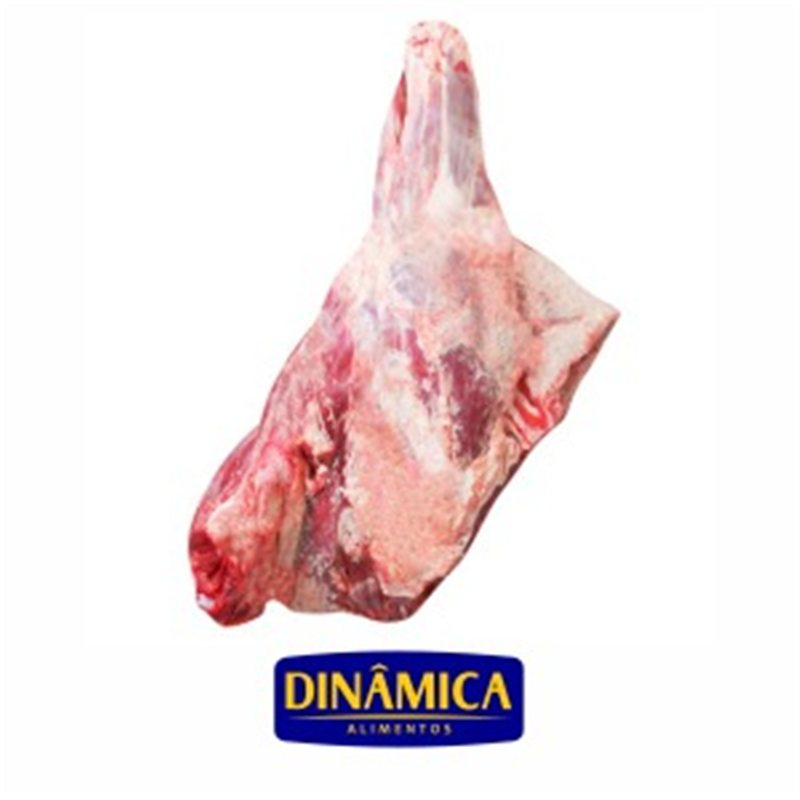
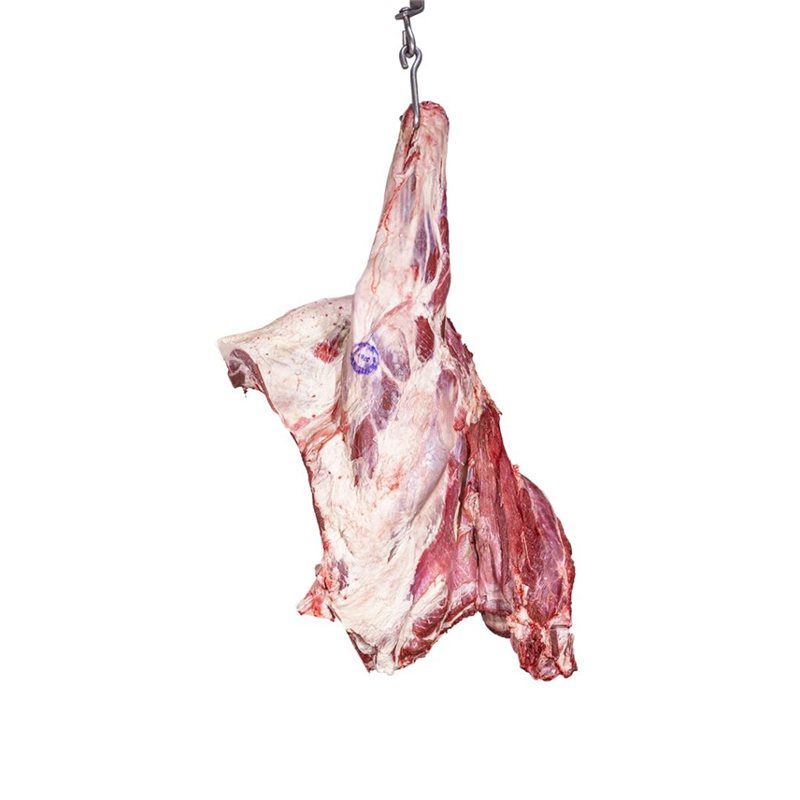
v2.64.1: validade padrao de 1 dia no Destaque + foto nova do 1602
DestaqueSemanaModal comeca com hoje -> amanha e usa data local.
fotos/1602.jpg trocada (a anterior tinha logo de outra marca).

Changed region(s): [[0.2188, 0.0, 0.7812, 0.9375]]

diff --git a/index.html b/index.html
@@ -457,7 +457,7 @@
         const isCapacitor = (typeof window !== 'undefined') && !!(window.Capacitor && (typeof window.Capacitor.isNativePlatform === 'function' ? window.Capacitor.isNativePlatform() : window.Capacitor.isNative));
         // 🔄 Versão desta página, pra comparar com web-version.json e saber se tem atualização pendente
         // (site/PWA/PC). PRECISA bater com o número em web-version.json — bump os dois juntos SEMPRE.
-        const APP_BUILD_VERSION = 271;
+        const APP_BUILD_VERSION = 272;
         // 📋 Chaves da Fila de Pedidos. Ficam aqui no topo porque são usadas por DUAS telas distantes:
         // a FilaScreen (que monta a lista) e a ResumoScreen (que marca o pedido como conferido ao copiar).
         const FILA_ATIVA = 'friganso_fila_ativa';   // [{ pedido, feito, texto }] — a fila em andamento
@@ -9705,6 +9705,10 @@
         // (reseta Y). Y também sobe se Z chegasse a 100 (reseta Z). Mais recente primeiro.
         // Toda entrega nova (site/extensão/app/PC) ganha uma entrada aqui.
         const CHANGELOG = [
+            { versao: '2.64.1', data: '25/11/2026', areas: ['site', 'app'], itens: [
+                '📅 Destaque da Semana: validade já vem com 1 dia (hoje até amanhã). Também corrigido o dia que virava sozinho à noite (depois das 21h)',
+                '📸 Foto nova do Dianteiro Bovino (1602), sem logo de outra marca',
+            ] },
             { versao: '2.64.0', data: '25/11/2026', areas: ['site', 'app'], itens: [
                 '🏷 Produto sem marca no nome agora é Friganso: a foto ganha o selo com a logo da Friganso (catálogo, detalhe e ficha) e a marca aparece como Friganso no texto e no Comparar marcas. Vale pros cortes próprios (bovino, suíno, miúdos, salgados, carne seca, resfriados); marcas de terceiro ficam de fora',
                 '🐂 Itens do grupo 16 ganham a etiqueta "Boi no osso" e os do grupo 27 "Suíno banda", na foto, na ficha (campo TIPO) e no texto pro cliente',
@@ -11591,8 +11595,9 @@
             return cv;
         };
         const DestaqueSemanaModal = ({ products, produtoFotos, catalogoContatos, onFechar, showMessage }) => {
-            const hoje = new Date(); const fim = new Date(); fim.setDate(fim.getDate() + 5);
-            const dd = d => d.toISOString().slice(0, 10);
+            // validade padrão: 1 dia (hoje → amanhã), pedido do Bruno 25/11/2026. Data LOCAL (toISOString é UTC e virava o dia depois das 21h).
+            const hoje = new Date(); const fim = new Date(); fim.setDate(fim.getDate() + 1);
+            const dd = d => d.getFullYear() + '-' + String(d.getMonth() + 1).padStart(2, '0') + '-' + String(d.getDate()).padStart(2, '0');
             const [codigos, setCodigos] = useState([]);
             const [busca, setBusca] = useState('');
             const [de, setDe] = useState(dd(hoje)); const [ate, setAte] = useState(dd(fim));

diff --git a/friganso.user.js b/friganso.user.js
@@ -1,7 +1,7 @@
 // ==UserScript==
 // @name         Prumo ERP - Lancar pedido
 // @namespace    friganso-erp
-// @version      2026.11.25.1610
+// @version      2026.11.25.1707
 // @description  Le e lanca pedidos no SPAmov direto pelo app Prumo (funciona no celular via Firefox + Tampermonkey).
 // @author       Prumo
 // @match        https://tkadachii.github.io/*

diff --git a/sw.js b/sw.js
@@ -1,4 +1,4 @@
-const CACHE = 'prumo-v271';
+const CACHE = 'prumo-v272';
 const BASE = '/prumo-erp';
 const ASSETS = [
     BASE + '/',

diff --git a/CONTEXTO-DO-PROJETO.md b/CONTEXTO-DO-PROJETO.md
@@ -1104,6 +1104,10 @@ Pedido: cliente pergunta "como é essa mussarela?" → abrir o item e ter o que 
 - `corte`: grupo 16 = 'Boi no osso', 27 = 'Suíno banda'.
 - `SeloFotoProduto` (logo branca em pílula vermelha + etiqueta âmbar) no card do Catálogo e no ProdutoDetalheModal; `gerarFichaProduto` desenha o mesmo selo na foto principal (escala pelo tamanho do cartão) e ganhou o cartão TIPO; `textoClienteProduto` ganhou a linha do corte.
 
+## 📅 v2.64.1 (25/11/2026) — Validade padrão 1 dia
+- `DestaqueSemanaModal`: validade padrão hoje→amanhã (pedido do Bruno); datas em horário LOCAL (toISOString virava o dia após 21h).
+- `fotos/1602.jpg` trocada (a antiga tinha logo da Dinâmica); mapa com ?v=4.
+
 ## 🐞 PENDENTE / em investigação
 - ⛔ **A EXTENSÃO lê errado o produto `29741` (ARROZ BCO T1, pallet):** dá R$ 510,00 quando o preço
   certo é **R$ 5.100,00** (confirmado pelo usuário e pelo PDF). O PDF lê certo. Suspeita: valores
